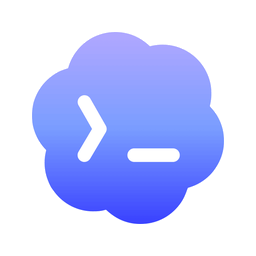
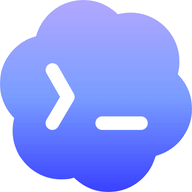
feat: 계정 사용량을 팝업 대신 우측 사이드패널 탭 뷰로 전환
- UsageBtn 을 팝오버 토글이 아닌 일반 뷰 전환 탭(Tag=4)으로 변경
- Popup 을 Grid.Row=3 패널(UsageView/ScrollViewer)로 이동, 다른 뷰와 동일하게 헤더바에 "계정 사용량" 표시
- 사용량 탭 진입 시 UsageRequested 로 최신 스냅샷 요청
- codex.png 투명 여백 제거(256→192 크롭) — claude 아이콘 대비 작게 보이던 문제 해결

diff --git a/Views/FileExplorerView.xaml b/Views/FileExplorerView.xaml
@@ -78,8 +78,8 @@
                     <Path x:Name="DiffViewIcon" Style="{StaticResource LucideIcon}"
                           Data="{StaticResource IconGitCompare}" Width="15" Height="15" VerticalAlignment="Center"/>
                 </Button>
-                <!-- 계정 사용량 — 뷰 전환이 아니라 팝오버. 클릭 시 표시 가능한 provider 카드만 띄운다. -->
-                <Button x:Name="UsageBtn" Click="UsageBtn_Click"
+                <!-- 계정 사용량 — 다른 뷰와 동일하게 패널에 표시되는 탭. -->
+                <Button x:Name="UsageBtn" Click="TabBtn_Click" Tag="4"
                         Style="{StaticResource ViewTabButton}" ToolTip="계정 사용량">
                     <Path x:Name="UsageIcon" Style="{StaticResource LucideIcon}"
                           Data="{StaticResource IconChartPie}" Width="15" Height="15" VerticalAlignment="Center"
@@ -332,29 +332,13 @@
         <!-- 작업 큐 뷰 (큐 모드일 때만 표시) — 버블 입력 + 영속화 -->
         <v:TaskQueueView x:Name="QueueView" Grid.Row="3" Visibility="Collapsed"/>
 
-        <!-- ── 계정 사용량 팝오버 ───────────────────────────────────────
-             UsageBtn 아래에 떠서 표시 가능한 provider 카드(사용률 막대 + 초기화 안내)만 보여준다.
+        <!-- ── 계정 사용량 뷰 (사용량 모드일 때만 표시) ───────────────────
+             표시 가능한 provider 카드(사용률 막대 + 초기화 안내)만 보여준다.
              데이터는 MainWindow 가 UsageRequested 응답으로 SetUsageCards 로 채운다. -->
-        <Popup x:Name="UsagePopup" PlacementTarget="{Binding ElementName=UsageBtn}" Placement="Bottom"
-               StaysOpen="False" AllowsTransparency="True" PopupAnimation="Fade"
-               HorizontalOffset="-6" VerticalOffset="4">
-            <Border Margin="12" Background="{DynamicResource PanelBrush}" CornerRadius="12"
-                    BorderBrush="{DynamicResource LineBrush}" BorderThickness="1">
-                <Border.Effect>
-                    <DropShadowEffect BlurRadius="24" ShadowDepth="0" Direction="270"
-                                      Color="#000000" Opacity="{DynamicResource PopupShadowOpacity}"/>
-                </Border.Effect>
-                <StackPanel Width="296" Margin="18,16,18,16">
-                    <!-- 헤더 -->
-                    <StackPanel Orientation="Horizontal" Margin="0,0,0,14">
-                        <Path Style="{StaticResource LucideIcon}" Data="{StaticResource IconChartPie}"
-                              Width="15" Height="15" VerticalAlignment="Center"
-                              Stroke="{DynamicResource PrimaryBrush}"/>
-                        <TextBlock Text="계정 사용량" Margin="8,0,0,0" VerticalAlignment="Center"
-                                   FontSize="{DynamicResource Fs13}" FontWeight="SemiBold"
-                                   Foreground="{DynamicResource TextBrush}"/>
-                    </StackPanel>
-
+        <ScrollViewer x:Name="UsageView" Grid.Row="3" Visibility="Collapsed"
+                      VerticalScrollBarVisibility="Auto" HorizontalScrollBarVisibility="Disabled"
+                      Background="{DynamicResource PanelBrush}">
+                <StackPanel Margin="18,14,18,16">
                     <!-- provider 카드 목록 -->
                     <ItemsControl x:Name="UsageList">
                         <ItemsControl.ItemTemplate>
@@ -427,7 +411,6 @@
                                FontSize="{DynamicResource Fs12}"
                                Foreground="{DynamicResource TextMutedBrush}"/>
                 </StackPanel>
-            </Border>
-        </Popup>
+        </ScrollViewer>
     </Grid>
 </UserControl>

diff --git a/Views/FileExplorerView.xaml.cs b/Views/FileExplorerView.xaml.cs
@@ -187,7 +187,7 @@ public partial class FileExplorerView : UserControl
     private const int MaxSearchResults = 500;
 
     /// <summary>우측 패널의 현재 뷰 모드.</summary>
-    private enum ViewMode { Directory, Browser, Diff, Queue }
+    private enum ViewMode { Directory, Browser, Diff, Queue, Usage }
     private ViewMode _mode = ViewMode.Queue;
     private bool _browserMode => _mode == ViewMode.Browser;
 
@@ -203,13 +203,7 @@ public partial class FileExplorerView : UserControl
     /// <summary>사용량 버튼 클릭 — 최신 카드를 요청해 채운 뒤 팝오버를 연다.</summary>
     public event Action? UsageRequested;
 
-    private void UsageBtn_Click(object sender, RoutedEventArgs e)
-    {
-        UsageRequested?.Invoke();   // MainWindow 가 SetUsageCards 로 최신값을 채운다(동기).
-        UsagePopup.IsOpen = true;
-    }
-
-    /// <summary>표시 가능한 provider 사용량 카드로 팝오버를 채운다. 비면 안내 문구 표시.</summary>
+    /// <summary>표시 가능한 provider 사용량 카드로 패널을 채운다. 비면 안내 문구 표시.</summary>
     public void SetUsageCards(IReadOnlyList<UsageCardVM> cards)
     {
         UsageList.ItemsSource = cards;
@@ -224,8 +218,10 @@ public partial class FileExplorerView : UserControl
         Browser.Visibility   = idx == 1 ? Visibility.Visible : Visibility.Collapsed;
         DiffView.Visibility  = idx == 2 ? Visibility.Visible : Visibility.Collapsed;
         QueueView.Visibility = idx == 3 ? Visibility.Visible : Visibility.Collapsed;
+        UsageView.Visibility = idx == 4 ? Visibility.Visible : Visibility.Collapsed;
         if (idx == 1) Browser.EnsureStarted();       // 최초 진입 시 WebView2 초기화
         if (idx == 2) _ = DiffView.RefreshAsync();  // 진입할 때마다 최신 변경 내역 로드
+        if (idx == 4) UsageRequested?.Invoke();     // MainWindow 가 SetUsageCards 로 최신값을 채운다(동기)
 
         // 큐 모드에서는 44px 헤더(row 1) 를 접어서 콘텐츠가 탭 바로 아래에 이어지게 한다.
         // (탭 자체가 '작업 큐' 제목 역할 → 중복 헤더 불필요)
@@ -237,6 +233,7 @@ public partial class FileExplorerView : UserControl
         {
             1 => ("IconGlobe", "브라우저"),
             2 => ("IconGitCompare", "DIFF"),
+            4 => ("IconChartPie", "계정 사용량"),
             _ => ("IconFolderOpen", _rootPath ?? "파일 탐색기"),
         };
         HeaderIcon.Data = (System.Windows.Media.Geometry)FindResource(icon);
@@ -260,6 +257,7 @@ public partial class FileExplorerView : UserControl
         if (BrowserViewBtn.Visibility == Visibility.Visible) visible.Add(1);
         if (DiffViewBtn.Visibility    == Visibility.Visible) visible.Add(2);
         if (QueueViewBtn.Visibility   == Visibility.Visible) visible.Add(3);
+        visible.Add(4);   // 사용량 탭은 항상 표시 — 활성 상태에서 다른 탭으로 강제 전환되지 않게 포함
         if (visible.Count > 0 && !visible.Contains((int)_mode))
             SwitchTab(visible[0]);
     }
@@ -270,6 +268,7 @@ public partial class FileExplorerView : UserControl
         SetTabColor(BrowserViewBtn, BrowserViewIcon, _mode == ViewMode.Browser);
         SetTabColor(DiffViewBtn,    DiffViewIcon,    _mode == ViewMode.Diff);
         SetTabColor(QueueViewBtn,   QueueViewIcon,   _mode == ViewMode.Queue);
+        SetTabColor(UsageBtn,       UsageIcon,       _mode == ViewMode.Usage);
     }
 
     /// <summary>탭 아이콘·라벨 색상: 활성=PrimaryBrush, 비활성=TextMutedBrush.
